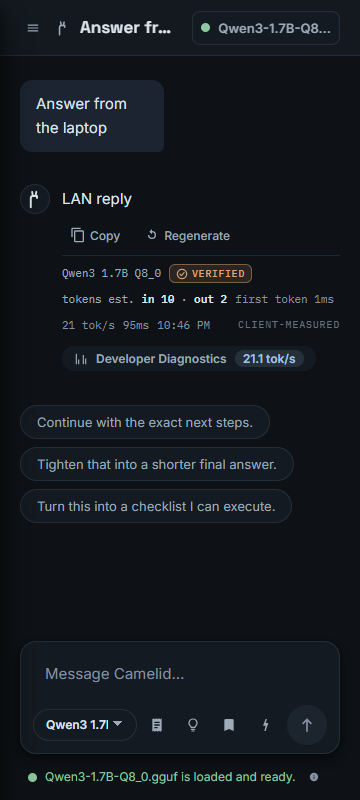
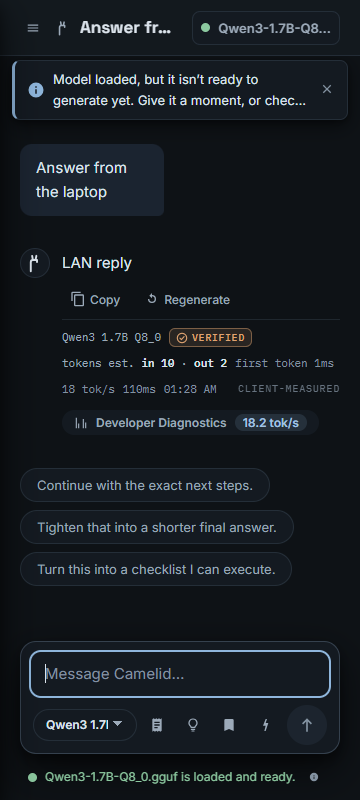
fix(web): keep compact chat controls reachable

diff --git a/frontend/src/views/ChatWorkspace.jsx b/frontend/src/views/ChatWorkspace.jsx
@@ -85,6 +85,12 @@ const canvasBlob = (canvas, quality) => new Promise((resolve) => {
   canvas.toBlob(resolve, 'image/jpeg', quality)
 })
 
+const resizeComposerInput = (input) => {
+  if (!input) return
+  input.style.height = 'auto'
+  input.style.height = `${Math.min(input.scrollHeight, 220)}px`
+}
+
 async function prepareVisionAttachment(file) {
   if (!['image/png', 'image/jpeg'].includes(file.type)) {
     throw new Error('Choose a PNG or JPEG image.')
@@ -417,19 +423,17 @@ export default function ChatWorkspace({
   }, [generationActive, streamingScrollSignature])
 
   useLayoutEffect(() => {
-    const input = composerRef.current
-    if (!input) return
-    const resize = () => {
-      input.style.height = 'auto'
-      input.style.height = `${Math.min(input.scrollHeight, 220)}px`
-    }
-    resize()
+    const resize = () => resizeComposerInput(composerRef.current)
     window.addEventListener('resize', resize)
     window.visualViewport?.addEventListener('resize', resize)
     return () => {
       window.removeEventListener('resize', resize)
       window.visualViewport?.removeEventListener('resize', resize)
     }
+  }, [])
+
+  useLayoutEffect(() => {
+    resizeComposerInput(composerRef.current)
   }, [composer, isFreshThread, selectedConversation?.id])
 
   useEffect(() => {

diff --git a/frontend/src/styles/chat.css b/frontend/src/styles/chat.css
@@ -457,7 +457,14 @@
     scrollbar-width: none;
   }
   .cxcomposer__tools::-webkit-scrollbar { display: none; }
-  .cxcomposer__model { flex: 0 1 150px; min-width: 104px; }
+  .cxcomposer__model {
+    position: sticky;
+    left: 0;
+    z-index: 1;
+    flex: 0 1 150px;
+    min-width: 104px;
+    background: var(--color-composer-surface);
+  }
   .cxcomposer__tool--collapsible .cxcomposer__tool-label { display: none; }
   .cxcomposer__tool--collapsible { width: 32px; padding: 0; flex: none; justify-content: center; }
   .cxcomposer__model-select { width: 100%; min-width: 0; max-width: 150px; }

diff --git a/frontend/src/styles/ui.css b/frontend/src/styles/ui.css
@@ -307,7 +307,13 @@
 
 @media (max-width: 860px) and (max-height: 500px) and (orientation: landscape) {
   .cx-notice { gap: var(--space-2); padding: var(--space-1) var(--space-3); }
-  .cx-notice__text { overflow: hidden; text-overflow: ellipsis; white-space: nowrap; }
+  .cx-notice__text {
+    display: block;
+    overflow: hidden;
+    text-overflow: ellipsis;
+    white-space: nowrap;
+    -webkit-line-clamp: unset;
+  }
 }
 
 /* ---- Field ---- */

diff --git a/frontend/design-evidence/lan-chat-responsive/README.md b/frontend/design-evidence/lan-chat-responsive/README.md
@@ -1,10 +1,12 @@
 # Responsive LAN Chat evidence
 
-Generated by `npm run smoke:lan-auth` from the authenticated LAN Chat flow on 2026-08-20. The smoke uses a scripted local backend, switches models, completes a streamed reply, and then captures the same rendered state at two constrained browser viewports.
+Generated by `CAMELID_CAPTURE_LAN_RESPONSIVE=1 npm run smoke:lan-auth` from the authenticated LAN Chat flow on 2026-08-21. The smoke uses a scripted local backend, switches models, completes a streamed reply, and then captures the same notice-visible state it measures at two constrained browser viewports.
 
 - `01-mobile-portrait.png`: 360 x 800 compact portrait.
 - `02-mobile-landscape-short.png`: 740 x 320 short landscape, representing reduced usable height after mobile browser chrome.
 
-The executable smoke also checks 390 x 844 phone portrait, 844 x 390 phone landscape, 768 x 1024 tablet portrait, and 1440 x 900 desktop. For compact cells it asserts no document overflow, a single 40px composer toolbar row, visible model/send controls, at least 120px of message space, bounded notices, a settled navigation drawer, and reachability of the final composer tool.
+The executable smoke also checks 390 x 844 phone portrait, 480 x 320 narrow phone landscape, 844 x 390 phone landscape, 768 x 1024 tablet portrait, and 1440 x 900 desktop. The compact treatment is global at 860px and below, including tablets and narrow desktop windows; it is not limited to LAN mode. For compact cells the CI smoke asserts no document overflow, a single 40px composer toolbar row, visible model/send controls, at least 120px of message space, bounded notices, a settled navigation drawer, and simultaneous reachability of the sticky model picker and final composer tool at maximum horizontal scroll.
+
+The PNGs are dated review evidence, not cross-platform pixel-golden tests. CI exercises the built CSS through the geometry and interaction assertions above; the checksum manifest protects the committed evidence bytes.
 
 Physical Android authentication, model switching, and streamed inference evidence remain in the parent PR's `frontend/design-evidence/lan-chat-e2e` directory. These images document only the responsive presentation change.
